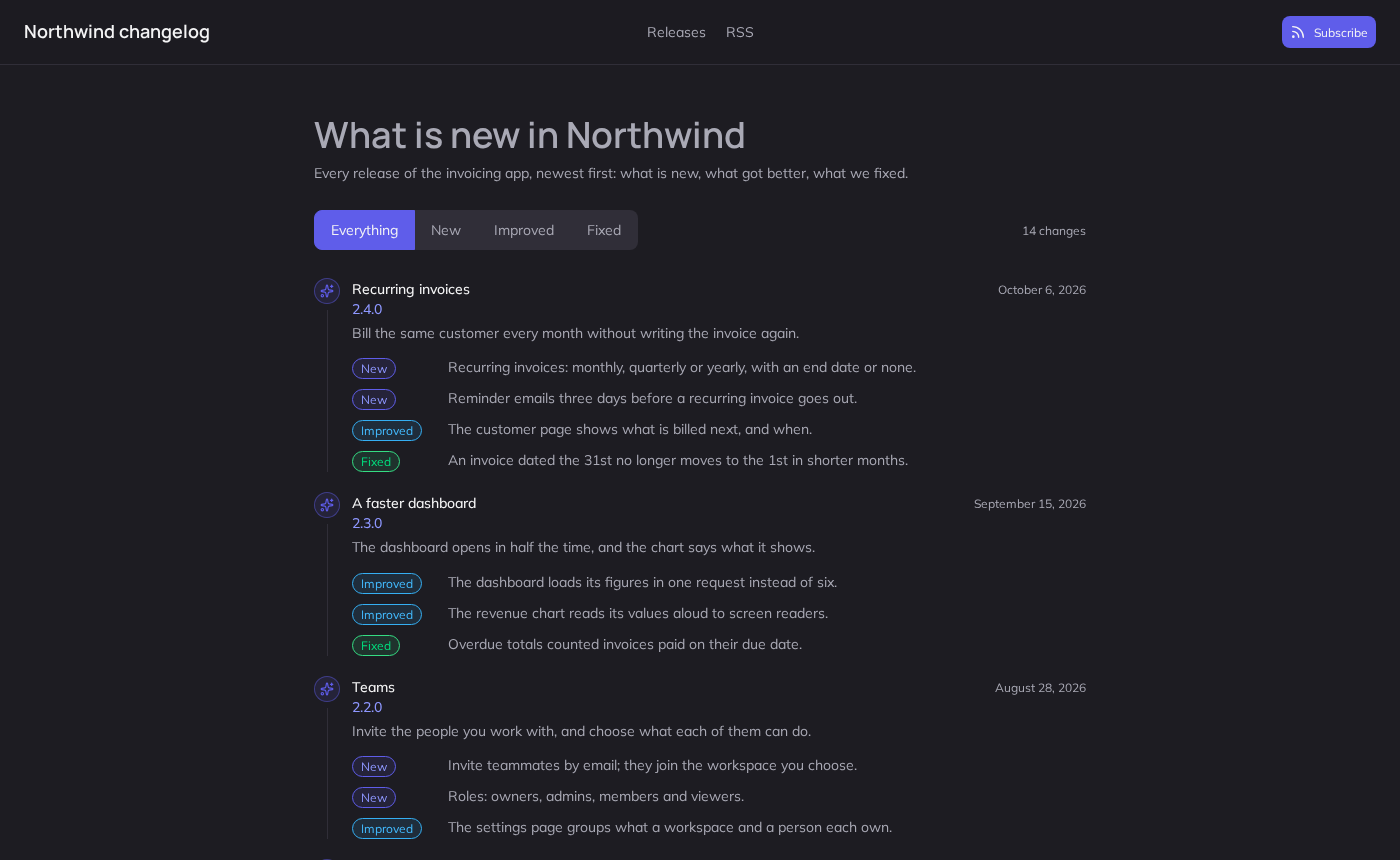
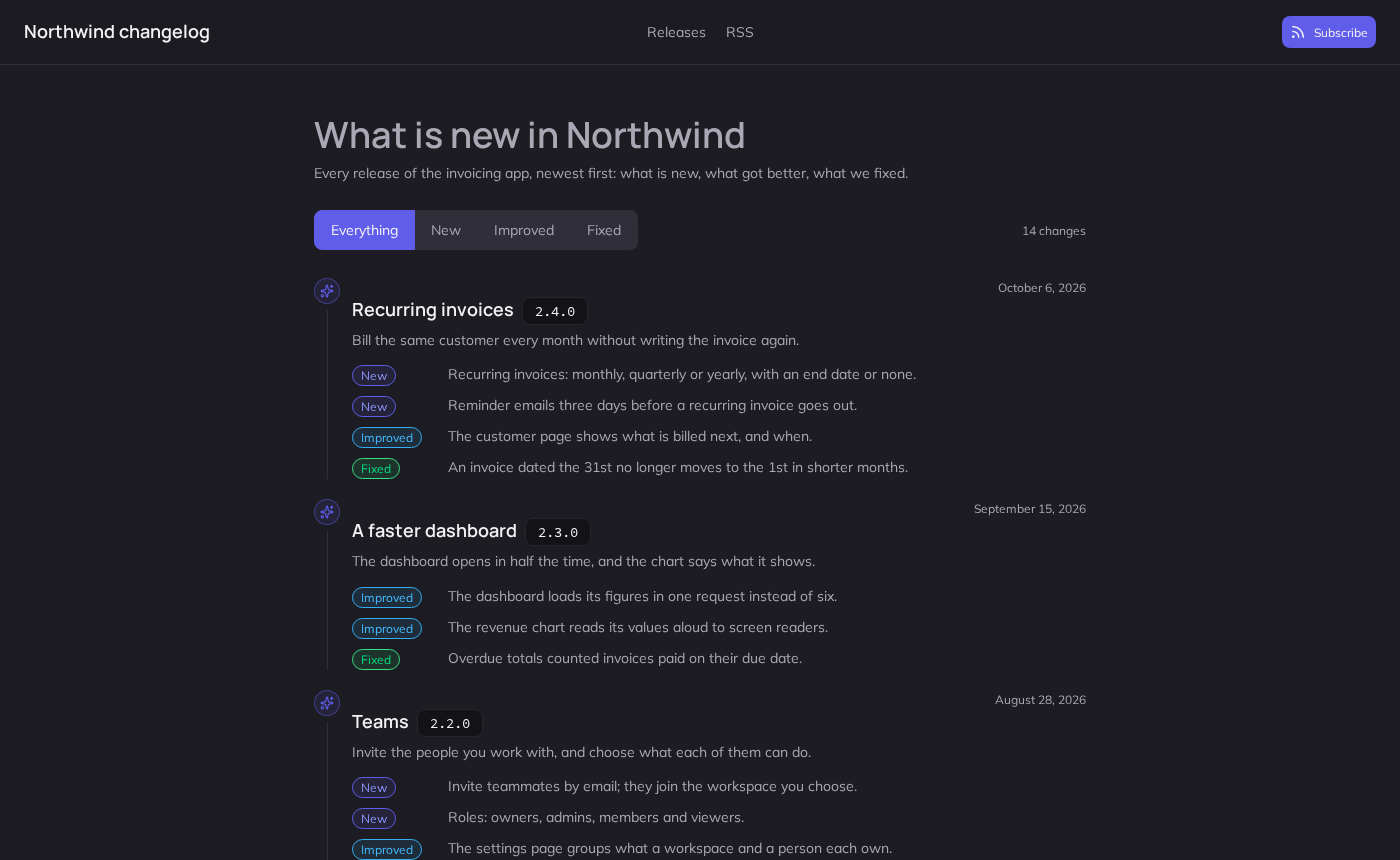
fix(templates): the changelog's feed writes itself, its releases are headings, Everything stays pressed in every stack, and an unreadable address is a page not found

diff --git a/templates/changelog-react/src/App.tsx b/templates/changelog-react/src/App.tsx
@@ -25,7 +25,13 @@ const LINKS = [
 function useVersion(): string | null {
   const read = () => {
     const version = /^#\/releases\/(.+)$/.exec(location.hash)?.[1];
-    return version ? decodeURIComponent(version) : null;
+    if (!version) return null;
+    // An address that cannot be read names no release: it is shown as unknown.
+    try {
+      return decodeURIComponent(version);
+    } catch {
+      return version;
+    }
   };
   const [version, setVersion] = useState(read);
   useEffect(() => {
@@ -76,7 +82,12 @@ function Releases() {
           label="Show"
           value={kind}
           // The chosen filter pressed again would leave none: everything, then.
-          onkt-change={(event) => setKind((event.detail.value as Kind | null) ?? 'all')}
+          onkt-change={(event) => {
+            const next = (event.detail.value as Kind | null) ?? 'all';
+            // The group cleared itself; the state may not change, so say it here.
+            (event.currentTarget as HTMLElement & { value: string | null }).value = next;
+            setKind(next);
+          }}
         >
           {KINDS.map((option) => (
             <kt-toggle-button key={option.value} value={option.value}>
@@ -98,15 +109,17 @@ function Releases() {
             {releases.map((release) => (
               <kt-timeline-item
                 key={release.version}
-                heading={release.title}
                 time={formatDate(release.date)}
                 icon="sparkles"
                 variant="primary"
               >
                 <div className="release-heading">
-                  <a className="release-link" href={releaseHref(release)}>
-                    {release.version}
-                  </a>
+                  <h2 className="release-title">
+                    <a className="release-link" href={releaseHref(release)}>
+                      {release.title}
+                    </a>
+                  </h2>
+                  <kt-badge variant="code">{release.version}</kt-badge>
                 </div>
                 <p className="release-summary">{release.summary}</p>
                 <Changes release={release} />

diff --git a/templates/changelog-vue/src/App.vue b/templates/changelog-vue/src/App.vue
@@ -31,7 +31,13 @@ const releaseHref = (release: Release) => `#/releases/${release.version}`;
 
 const read = () => {
   const version = /^#\/releases\/(.+)$/.exec(location.hash)?.[1];
-  return version ? decodeURIComponent(version) : null;
+  if (!version) return null;
+  // An address that cannot be read names no release: it is shown as unknown.
+  try {
+    return decodeURIComponent(version);
+  } catch {
+    return version;
+  }
 };
 const version = ref(read());
 const onHash = () => (version.value = read());
@@ -63,7 +69,10 @@ const count = computed(() => releases.value.reduce((sum, item) => sum + item.cha
 
 // The chosen filter pressed again would leave none: everything, then.
 function onKind(event: CustomEvent<{ value: string | null }>): void {
-  kind.value = (event.detail.value as Kind | null) ?? 'all';
+  const next = (event.detail.value as Kind | null) ?? 'all';
+  // The group cleared itself; the state may not change, so say it here.
+  (event.currentTarget as HTMLElement & { value: string | null }).value = next;
+  kind.value = next;
 }
 
 // === The header and the newsletter ===
@@ -129,13 +138,15 @@ function onSubscribe(event: CustomEvent<KtSubscribeDetail>): void {
             <kt-timeline-item
               v-for="item in releases"
               :key="item.version"
-              :heading="item.title"
               :time="formatDate(item.date)"
               icon="sparkles"
               variant="primary"
             >
               <div class="release-heading">
-                <a class="release-link" :href="releaseHref(item)">{{ item.version }}</a>
+                <h2 class="release-title">
+                  <a class="release-link" :href="releaseHref(item)">{{ item.title }}</a>
+                </h2>
+                <kt-badge variant="code">{{ item.version }}</kt-badge>
               </div>
               <p class="release-summary">{{ item.summary }}</p>
               <Changes :release="item" />

diff --git a/scripts/templates.test.ts b/scripts/templates.test.ts
@@ -2,7 +2,7 @@
  * The templates: each a project of its own, and what the stacks of one
  * template share — data, rules, view helpers — kept identical and tested once.
  */
-import { existsSync, readdirSync, readFileSync } from 'node:fs';
+import { existsSync, readdirSync, readFileSync, writeFileSync } from 'node:fs';
 import { join } from 'node:path';
 import { afterEach, beforeAll, beforeEach, describe, expect, it, vi } from 'vitest';
 import type { KtNavItem, KtNavSection } from '../src/index.js';
@@ -67,6 +67,7 @@ const SHARED: Record<string, readonly string[]> = {
     'src/icons.ts',
     'src/styles.css',
     'public/rss.xml',
+    'vite-feed.ts',
   ],
   editor: [
     'src/content.ts',
@@ -725,6 +726,25 @@ describe('the changelog', () => {
     const doc = new DOMParser().parseFromString(feed, 'application/xml');
     expect(doc.querySelector('parsererror')).toBeNull();
     expect(doc.querySelectorAll('item')).toHaveLength(1);
+  });
+
+  it("writes the feed again on every start and build, so a fork's feed follows its releases", async () => {
+    const { feed } = await import('../templates/changelog-vanilla/vite-feed');
+    const { RELEASES, SITE } = await import('../templates/changelog-vanilla/src/content');
+    const { buildRss } = await import('../templates/changelog-vanilla/src/rss');
+    const path = join(root, 'templates/changelog-vanilla/public/rss.xml');
+    const kept = readFileSync(path, 'utf8');
+    try {
+      writeFileSync(path, 'stale');
+      const plugin = feed();
+      (plugin.configResolved as (config: { publicDir: string }) => void)({
+        publicDir: join(root, 'templates/changelog-vanilla/public'),
+      });
+      (plugin.buildStart as () => void)();
+      expect(readFileSync(path, 'utf8')).toBe(buildRss(RELEASES, SITE));
+    } finally {
+      writeFileSync(path, kept);
+    }
   });
 
   it('serves the feed the releases make', async () => {

diff --git a/scripts/template-smoke.js b/scripts/template-smoke.js
@@ -483,9 +483,17 @@ export const SMOKES = {
     });
     await filter('Everything');
     await until(() => document.querySelectorAll('kt-timeline-item').length === 5);
+    // Pressed again, Everything stays pressed: a filter is always shown chosen.
+    await filter('Everything');
+    await until(
+      () => document.querySelector('kt-toggle-button-group.kind-filter')?.value === 'all',
+    );
+
+    // Each release is a heading, so a screen reader can go from one to the next.
+    await until(() => document.querySelectorAll('.releases h2').length === 5);
 
     // A release's own page, its older neighbour, and back to them all.
-    await page.locator('a.release-link', { hasText: '2.3.0' }).click();
+    await page.locator('a.release-link', { hasText: 'A faster dashboard' }).click();
     await until(
       () =>
         location.hash === '#/releases/2.3.0' &&
@@ -502,6 +510,11 @@ export const SMOKES = {
 
     // A version that does not exist.
     await page.goto(`${base}#/releases/9.9.9`);
+    await until(() => document.querySelector('kt-error-page') !== null);
+    // An address that cannot even be read is a page that does not exist, not a blank one.
+    await page.goto(`${base}#/`);
+    await until(() => document.querySelectorAll('kt-timeline-item').length === 5);
+    await page.goto(`${base}#/releases/%E0`);
     await until(() => document.querySelector('kt-error-page') !== null);
 
     // Subscribing says it worked.

diff --git a/templates/changelog-vanilla/src/main.ts b/templates/changelog-vanilla/src/main.ts
@@ -156,14 +156,16 @@ function drawList(): void {
         el(
           'kt-timeline-item',
           {
-            heading: release.title,
             time: formatDate(release.date),
             icon: 'sparkles',
             variant: 'primary',
           },
           [
             el('div', { class: 'release-heading' }, [
-              el('a', { class: 'release-link', href: releaseHref(release) }, [release.version]),
+              el('h2', { class: 'release-title' }, [
+                el('a', { class: 'release-link', href: releaseHref(release) }, [release.title]),
+              ]),
+              el('kt-badge', { variant: 'code' }, [release.version]),
             ]),
             el('p', { class: 'release-summary' }, [release.summary]),
             changeList(release),
@@ -218,7 +220,14 @@ function route(): void {
     drawList();
     return;
   }
-  const release = releaseByVersion(RELEASES, decodeURIComponent(version));
+  let name = version;
+  // An address that cannot be read names no release: it is shown as unknown.
+  try {
+    name = decodeURIComponent(version);
+  } catch {
+    // Kept as written.
+  }
+  const release = releaseByVersion(RELEASES, name);
   document.title = release
     ? `${release.version} — ${SITE.name} changelog`
     : `${SITE.name} changelog`;

diff --git a/templates/changelog-react/vite-feed.ts b/templates/changelog-react/vite-feed.ts
@@ -1,0 +1,30 @@
+/**
+ * Writes `public/rss.xml` from the releases whenever the app starts or builds,
+ * so the feed never lags behind `src/content.ts`. Commit the file it writes:
+ * a static host serves it beside the page.
+ */
+import { readFileSync, writeFileSync } from 'node:fs';
+import { join } from 'node:path';
+import type { Plugin } from 'vite';
+import { RELEASES, SITE } from './src/content';
+import { buildRss } from './src/rss';
+
+export function feed(): Plugin {
+  let path = '';
+  return {
+    name: 'changelog-feed',
+    configResolved(config) {
+      path = join(config.publicDir, 'rss.xml');
+    },
+    buildStart() {
+      const xml = buildRss(RELEASES, SITE);
+      let written = '';
+      try {
+        written = readFileSync(path, 'utf8');
+      } catch {
+        // Not written yet.
+      }
+      if (written !== xml) writeFileSync(path, xml);
+    },
+  };
+}

diff --git a/templates/changelog-vanilla/vite-feed.ts b/templates/changelog-vanilla/vite-feed.ts
@@ -1,0 +1,30 @@
+/**
+ * Writes `public/rss.xml` from the releases whenever the app starts or builds,
+ * so the feed never lags behind `src/content.ts`. Commit the file it writes:
+ * a static host serves it beside the page.
+ */
+import { readFileSync, writeFileSync } from 'node:fs';
+import { join } from 'node:path';
+import type { Plugin } from 'vite';
+import { RELEASES, SITE } from './src/content';
+import { buildRss } from './src/rss';
+
+export function feed(): Plugin {
+  let path = '';
+  return {
+    name: 'changelog-feed',
+    configResolved(config) {
+      path = join(config.publicDir, 'rss.xml');
+    },
+    buildStart() {
+      const xml = buildRss(RELEASES, SITE);
+      let written = '';
+      try {
+        written = readFileSync(path, 'utf8');
+      } catch {
+        // Not written yet.
+      }
+      if (written !== xml) writeFileSync(path, xml);
+    },
+  };
+}

diff --git a/templates/changelog-vue/vite-feed.ts b/templates/changelog-vue/vite-feed.ts
@@ -1,0 +1,30 @@
+/**
+ * Writes `public/rss.xml` from the releases whenever the app starts or builds,
+ * so the feed never lags behind `src/content.ts`. Commit the file it writes:
+ * a static host serves it beside the page.
+ */
+import { readFileSync, writeFileSync } from 'node:fs';
+import { join } from 'node:path';
+import type { Plugin } from 'vite';
+import { RELEASES, SITE } from './src/content';
+import { buildRss } from './src/rss';
+
+export function feed(): Plugin {
+  let path = '';
+  return {
+    name: 'changelog-feed',
+    configResolved(config) {
+      path = join(config.publicDir, 'rss.xml');
+    },
+    buildStart() {
+      const xml = buildRss(RELEASES, SITE);
+      let written = '';
+      try {
+        written = readFileSync(path, 'utf8');
+      } catch {
+        // Not written yet.
+      }
+      if (written !== xml) writeFileSync(path, xml);
+    },
+  };
+}

diff --git a/templates/changelog-vue/vite.config.ts b/templates/changelog-vue/vite.config.ts
@@ -1,7 +1,8 @@
 import vue from '@vitejs/plugin-vue';
 import { isKantoElement } from 'kanto-ds/vue';
 import { defineConfig } from 'vite';
+import { feed } from './vite-feed';
 
 export default defineConfig({
-  plugins: [vue({ template: { compilerOptions: { isCustomElement: isKantoElement } } })],
+  plugins: [vue({ template: { compilerOptions: { isCustomElement: isKantoElement } } }), feed()],
 });

diff --git a/templates/changelog-react/src/styles.css b/templates/changelog-react/src/styles.css
@@ -80,9 +80,13 @@
   align-items: baseline;
 }
 
+.release-title {
+  margin: 0;
+  font: var(--font-title-h6);
+}
+
 .release-link {
-  color: var(--color-primary-text);
-  font: var(--font-normal-medium);
+  color: var(--text-body);
   text-decoration: none;
 }
 

diff --git a/templates/changelog-vanilla/src/styles.css b/templates/changelog-vanilla/src/styles.css
@@ -80,9 +80,13 @@
   align-items: baseline;
 }
 
+.release-title {
+  margin: 0;
+  font: var(--font-title-h6);
+}
+
 .release-link {
-  color: var(--color-primary-text);
-  font: var(--font-normal-medium);
+  color: var(--text-body);
   text-decoration: none;
 }
 

diff --git a/templates/changelog-vue/src/styles.css b/templates/changelog-vue/src/styles.css
@@ -80,9 +80,13 @@
   align-items: baseline;
 }
 
+.release-title {
+  margin: 0;
+  font: var(--font-title-h6);
+}
+
 .release-link {
-  color: var(--color-primary-text);
-  font: var(--font-normal-medium);
+  color: var(--text-body);
   text-decoration: none;
 }
 
